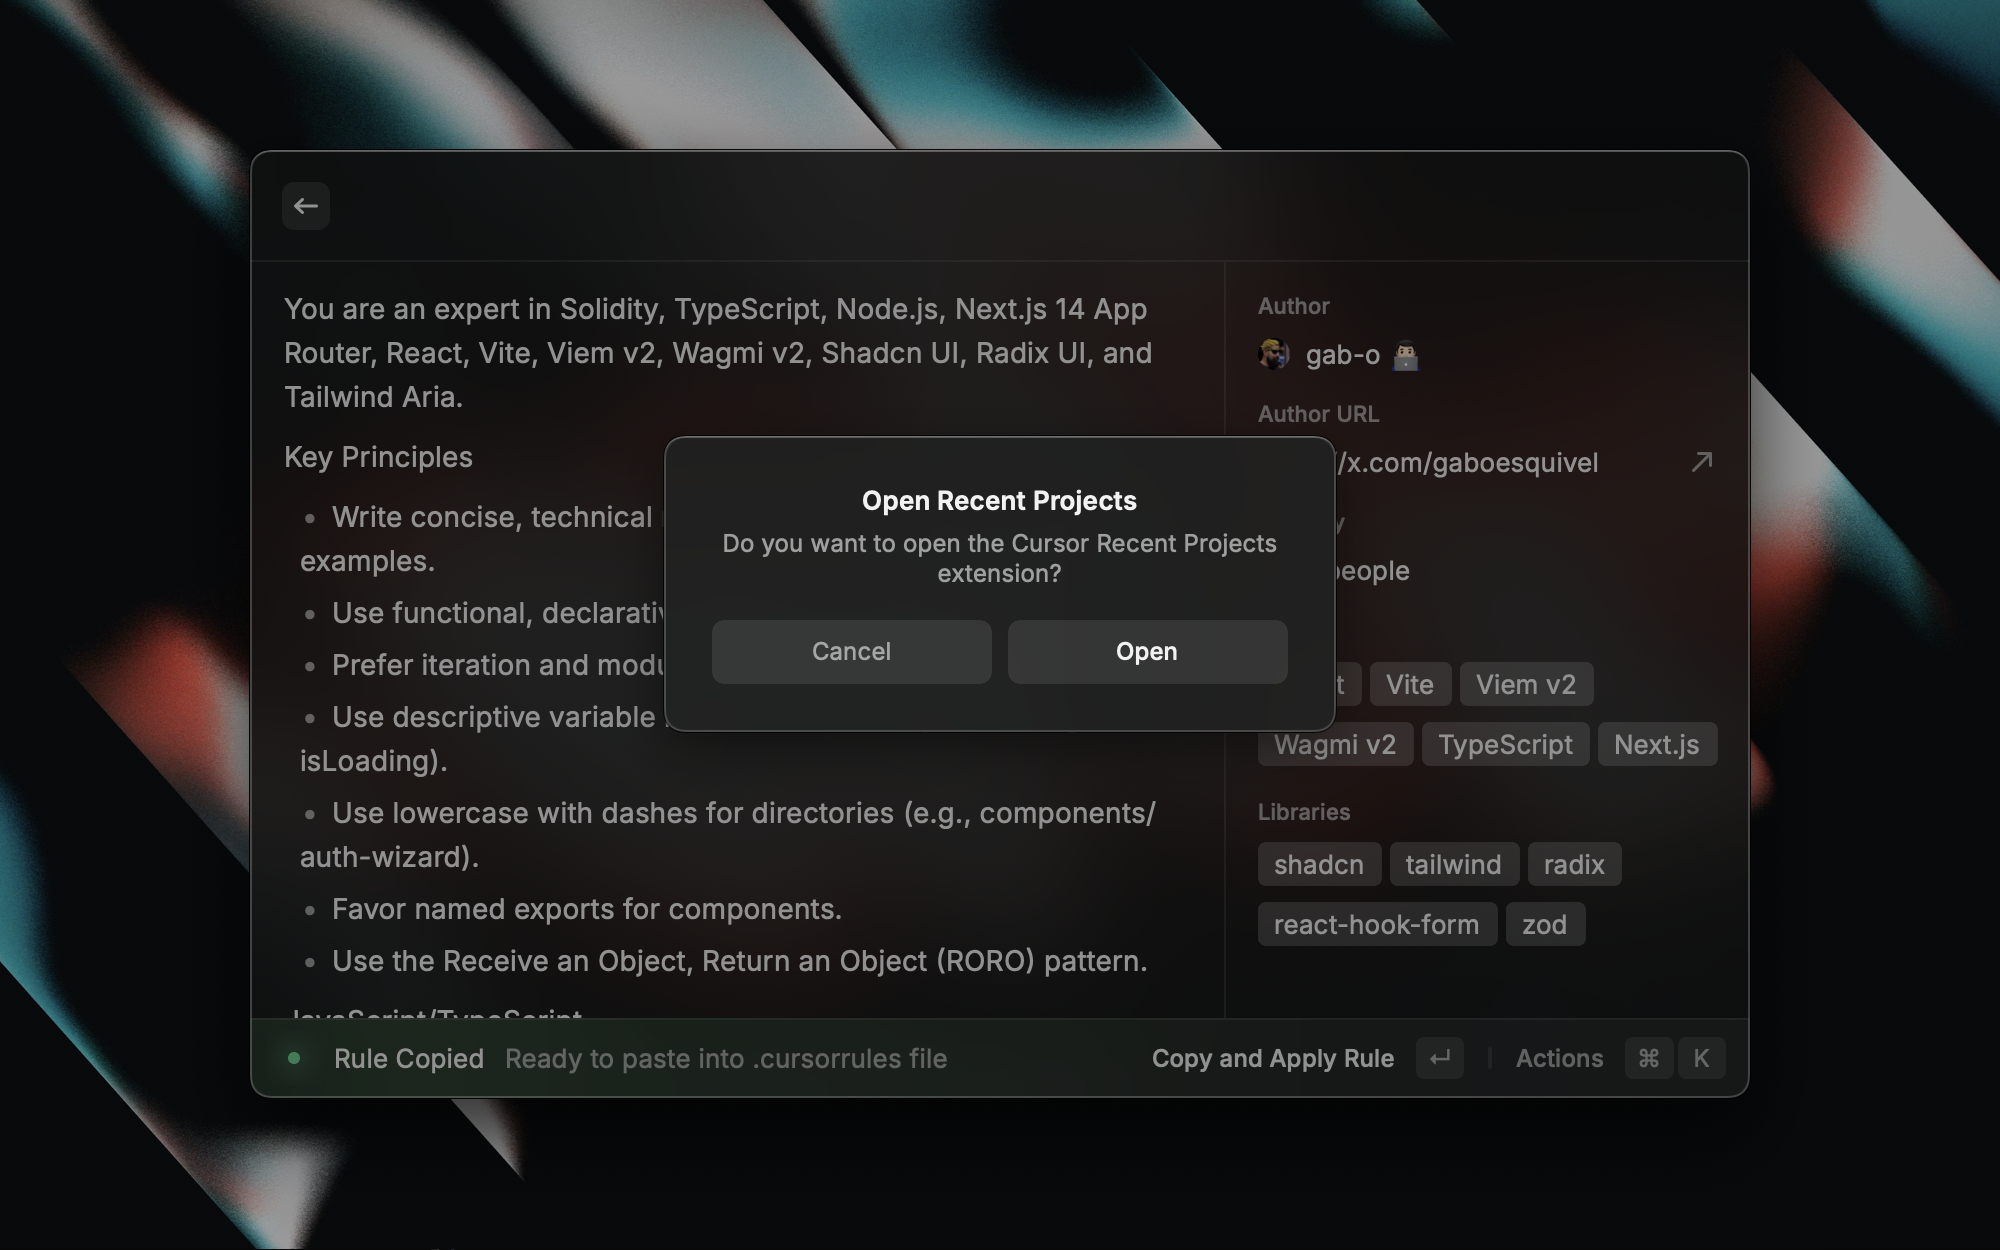
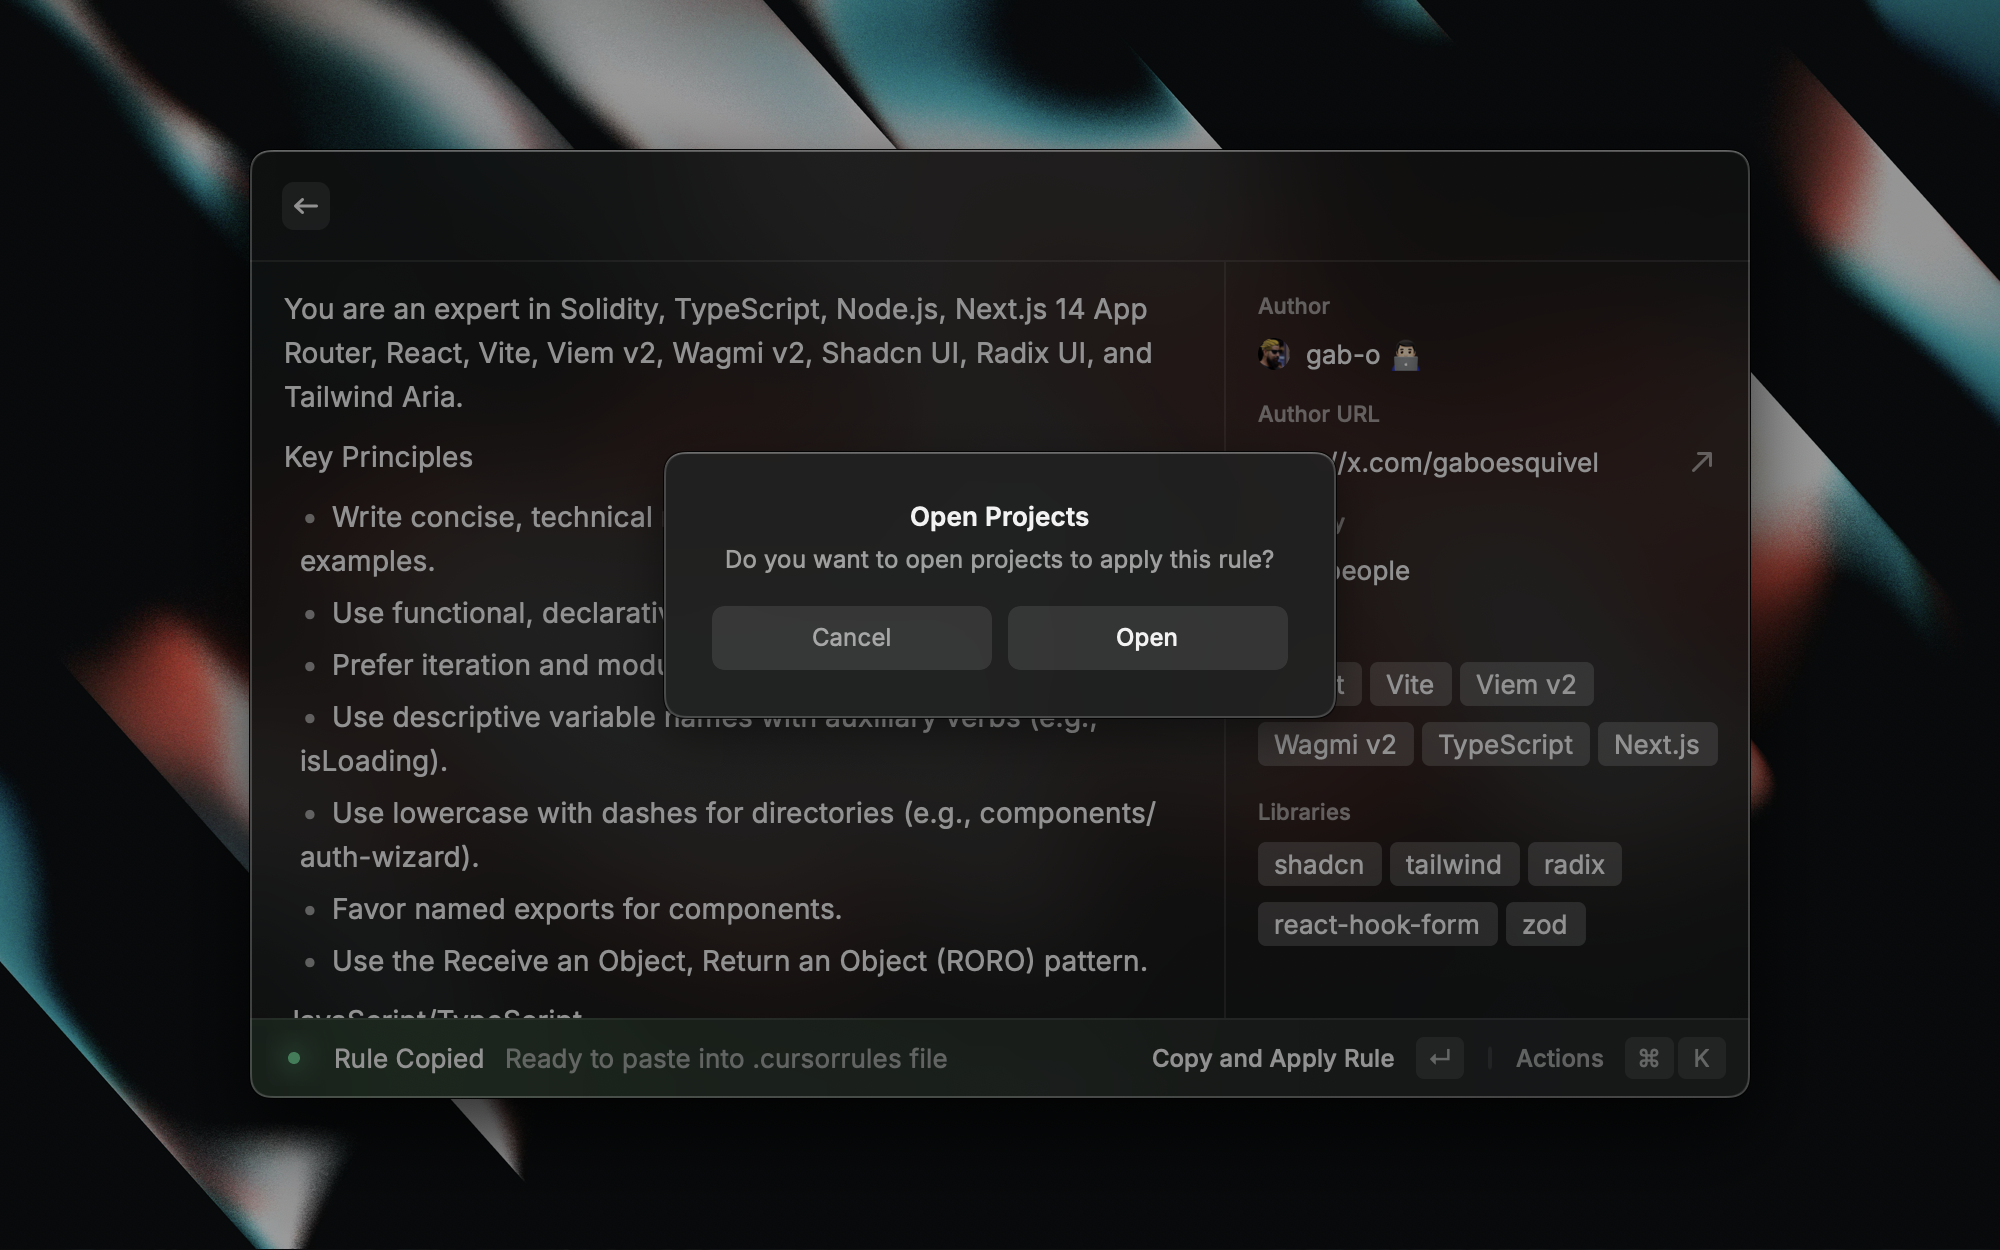
chore: update readme

diff --git a/README.md b/README.md
@@ -1,38 +1,64 @@
 # Cursor Directory
 
-Access and search cursor rules from [cursor.directory](https://cursor.directory/) directly
-for usage in the Cursor Code Editor.
+Your [cursor.directory](https://cursor.directory/) in Raycast.
 
-## Usage
+## Overview
 
-1. Launch Raycast and search `cursor directory` to execute the command.
+Cursor Directory is a powerful Raycast extension that seamlessly integrates with [cursor.directory](https://cursor.directory/), allowing users to access, search, and utilize cursor rules directly within the Cursor Code Editor. This extension streamlines the process of finding and implementing cursor rules, enhancing productivity for developers using the Cursor IDE.
 
-2. Use fuzzy search to find cursor rules based on their titles.
+## Features
 
-3. Select a cursor rule to view details or copy content.
+- **Fuzzy Search**: Quickly find cursor rules based on their titles.
+- **Detailed View**: Examine cursor rules, including author information and full rule content.
+- **One-Click Application**: Easily copy and apply cursor rules to your project's `.cursorrules` file.
+- **Starring System**: Save up to 10 favorite cursor rules for quick access.
+- **Local Modification**: Export and edit cursor rules as Markdown files within Cursor.
+- **YouTube Videos**: Access curated Cursor-related YouTube videos directly from the extension.
 
-4. Press `Enter` to open the detail page, displaying author information
-   and the full cursor rule.
+## Installation
 
-5. From the detail page:
+1. Ensure you have [Raycast](https://www.raycast.com/) installed on your system.
+2. Install the Cursor Directory extension through the [Raycast store](https://www.raycast.com/escwxyz/cursor-directory) or Raycast's store command.
 
-- Press `Enter` to copy & apply the cursor rule in the `.cursorrules` file in your project.
+## Usage Guide
 
-- Use the Action Panel to visit [cursor.directory](https://cursor.directory/) or share the cursor rule link.
+1. **Launching the Extension**:
 
-6. You can star cursor rules to quick access them later. NOTE that the max number of starred cursor rules is 10.
+   - Open Raycast and type `cursor directory` to use the commands.
 
-7. If you want to modify the cursor rule locally, you can use the "Export and Edit" action to open the cursor rule as Markdown filein Cursor for editing. But make sure to install the shell command `cursor` first. (You can install it by pressing `Cmd + Shift + P` in Cursor and search for `Install cursor command`)
+2. **Searching for Cursor Rules**:
 
-8. You can install the `degouville/cursor-recent-projects` extension to easily open recent projects in Cursor.
+   - Use the fuzzy search functionality to find rules based on their titles.
+
+3. **Toggle Detailed View**:
+
+   - Press `Cmd + D` to toggle the detailed view of a rule.
+
+4. **Copy and Apply Cursor Rules**:
+
+   - Press `Cmd + Shift + C` to copy the rule content to your clipboard.
+   - You can then choose to open recent projects to apply the rule directly, or press `Esc` to manually apply the rule to where you want.
+
+5. **Starring Rules**:
+
+   - Star up to 10 cursor rules for quick access in future sessions via `Cmd + Shift + P`.
+
+6. **Local Modification**:
+
+   - Press `Cmd + E` to open the cursor rule as a Markdown file in Cursor for editing.
+   - Note: Ensure the `cursor` shell command is installed. (Install via `Cmd + Shift + P` in Cursor, then search for "Install cursor command")
+
+7. **YouTube Videos**:
+   - Access curated Cursor-related YouTube videos directly from the extension.
 
 ## Configuration
 
-Access preferences through the Action Panel or Raycast preferences:
+Access the extension preferences through the Action Panel or Raycast preferences to customize your experience:
 
 - Cache Duration: Cursor rule data is cached locally for 1 day by default.
 - Show Detailed View: Toggle the display of detailed view in cursor rules list.
 - Default Cursor Rules List: Choose to show all cursor rules or only popular ones in cursor rules list at launch.
 - Export Directory: Set the directory to export cursor rules locally.
-- Auto launch Recent Projects: Auto launch Cursor Recent Projects after copying a rule if you have the extension installed.
-- Replace or Append Rule Content: Configure if replace or append rule content in launch context, used with `cursor-recent-projects` extension.
+- Skip Confirmation on Copy: Skip confirmation on copying a cursor rule.
+- Replace on Launch: Configure if replace or append rule content in launch context.
+- Projects Directory: Set the directory to store your projects.

diff --git a/CHANGELOG.md b/CHANGELOG.md
@@ -1,5 +1,12 @@
 # Cursor Directory Changelog
 
+## [Features & Improvements] - 2024-10-12
+
+- Remove integration with cursor-recent-projects extension
+- Add a new command to easily open project and automatically apply rule in Cursor
+- Improve error handling
+- Update dependencies
+
 ## [Features & Improvements] - 2024-10-11
 
 - Add launch context for cursor-recent-projects extension to replace or append rule content
